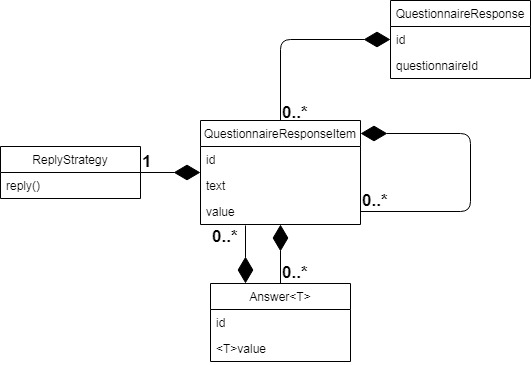
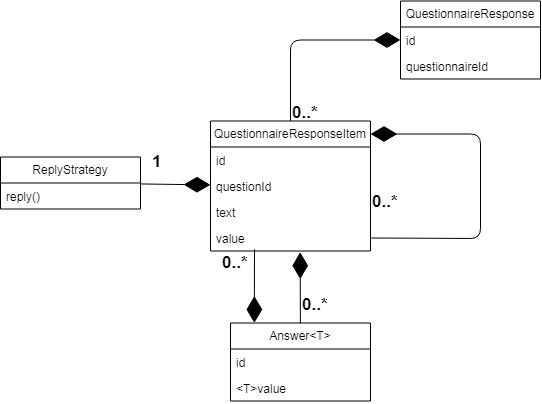
fix: added field questionId into response item instead of duplicating ids

Changed region(s): [[0.0, 0.0, 1.0, 1.0]]

diff --git a/packages/player/src/mappers/completeInitialFormState.ts b/packages/player/src/mappers/completeInitialFormState.ts
@@ -6,20 +6,20 @@ const completeResponseItem = (initialFormState: IFormState, responseItem: Models
     const answers = responseItem.answers;
     const nestedItems = responseItem.items;
     const questionItem = responseItem.questionItem;
-    const type = responseItem.questionItem.type;
+    const type = questionItem.type;
     if (answers.length !== 0) {
         const answer = answers[0];
         switch (type) {
             case Models.CHOICE: {
-                initialFormState[responseItem.id] = answer.id;
+                initialFormState[responseItem.questionId] = answer.id;
                 break;
             }
             case Models.OPEN_CHOICE: {
                 if ((questionItem as Models.OpenChoiceItem).options.some(option => option.id === answer.id && option.value === answer.value)) {
-                    initialFormState[responseItem.id] = answer.id;
+                    initialFormState[responseItem.questionId] = answer.id;
                 }
                 else {
-                    initialFormState[responseItem.id + '-other'] = answer.value;
+                    initialFormState[responseItem.questionId + '-other'] = answer.value;
                 }
             }
             case Models.MULTI_CHOICE: {
@@ -27,11 +27,11 @@ const completeResponseItem = (initialFormState: IFormState, responseItem: Models
                 answers.forEach(answer => {
                     multipleAnswers[answer.id] = true;
                 })
-                initialFormState[responseItem.id] = multipleAnswers;
+                initialFormState[responseItem.questionId] = multipleAnswers;
                 break;
             }
             default: {
-                initialFormState[responseItem.id] = answer.value;
+                initialFormState[responseItem.questionId] = answer.value;
             }
         }
     }

diff --git a/packages/models/src/models/questionnaireResponseItem.ts b/packages/models/src/models/questionnaireResponseItem.ts
@@ -13,6 +13,7 @@ import JL from 'json-logic-js';
 @observable
 export class QuestionnaireResponseItem implements IQuestionnaireResponseItem {
     id!: string;
+    questionId: string;
     text?: string;
     replyStrategy!: ReplyStrategy;
     @observableProperty
@@ -31,8 +32,9 @@ export class QuestionnaireResponseItem implements IQuestionnaireResponseItem {
     constructor(responseItem: Partial<IQuestionnaireResponseItem> | undefined, questionItem: Item, replyStrategy: ReplyStrategy, validationRules: IValidator[], answerCollection: AnswerCollection) {
         Object.assign(this, { id: uuid(), items: [], answers: [] }, responseItem);
         this.validationRules = validationRules;
-        this.setReplyStrategy(replyStrategy);
+        this.replyStrategy = replyStrategy;
         this.questionItem = questionItem;
+        this.questionId = questionItem.id;
         this.validate();
         this.answerCollection = answerCollection;
         if (questionItem.enableWhen.length) {
@@ -92,7 +94,7 @@ export class QuestionnaireResponseItem implements IQuestionnaireResponseItem {
         this.validate();
         obs && obs.unmute();
         obs && obs.emitChange();
-        this.answerCollection.updateResponseAnswers(this.id, this.answers.map(answer => answer.value));
+        this.answerCollection.updateResponseAnswers(this.questionId, this.answers.map(answer => answer.value));
     }
 
     cancelAnswer(answer: Answer<any>) {

diff --git a/packages/player/src/mappers/completeResponse.ts b/packages/player/src/mappers/completeResponse.ts
@@ -2,7 +2,7 @@ import * as Models from '@art-forms/models';
 
 export const completeResponse = (item: Models.Questionnaire | Models.GroupItem, response: Models.QuestionnaireResponse | Models.QuestionnaireResponseItem) => {
     item.items && item.items.forEach(item => {
-        const responseItem = Models.questionResponseFactory.createResponse(item, response.answerCollection, { id: item.id, text: item.text });
+        const responseItem = Models.questionResponseFactory.createResponse(item, response.answerCollection, { text: item.text });
         const answerFactory = new Models.AnswerFactory(responseItem);
         if (item.type !== Models.GROUP) {
             const oldResponseItem = response.items.find(responseItem => responseItem.id === item.id);

diff --git a/packages/player/src/components/Questionnaire.tsx b/packages/player/src/components/Questionnaire.tsx
@@ -76,7 +76,7 @@ export class Questionnaire extends React.Component<QuestionnaireProps> {
                 // preventEnter={true}     // has no type definition in .d.ts 
             >
                 {questionnaire.items && questionnaire.items.map(item => {
-                    const questionnaireResponseItem = questionnaireResponse.items.find(responseItem => responseItem.id === item.id);
+                    const questionnaireResponseItem = questionnaireResponse.items.find(responseItem => responseItem.questionId === item.id);
                     return questionnaireResponseItem && <ItemWrapper key={item.id} item={item} questionnaireResponseItem={questionnaireResponseItem} />
                 })}
             </Form>

diff --git a/packages/player/src/components/GroupItem.tsx b/packages/player/src/components/GroupItem.tsx
@@ -9,7 +9,7 @@ export class GroupItem extends React.Component<GroupItemProps> {
         const { item, questionnaireResponseItem } = this.props;
         return <div className="response-item-list">
             {item.items.map(item => {
-                const responseItem = questionnaireResponseItem.items.find(responseItem => responseItem.id === item.id);
+                const responseItem = questionnaireResponseItem.items.find(responseItem => responseItem.questionId === item.id);
                 return responseItem && <ItemWrapper key={item.id} item={item} questionnaireResponseItem={responseItem} />
             })}
         </div>

diff --git a/packages/player/src/components/MultiChoiceItemOption.tsx b/packages/player/src/components/MultiChoiceItemOption.tsx
@@ -2,7 +2,6 @@ import * as React from 'react';
 import * as Models from '@art-forms/models';
 import MultiChoiceItemOptionProps from '../interfaces/components/MultiChoiceItemOptionProps';
 import { Checkbox } from 'informed';
-import ERROR_MESSAGES from '../constants/errorMessages';
 
 export class MultiChoiceItemOption extends React.Component<MultiChoiceItemOptionProps> {
     answerFactory: Models.AnswerFactory = new Models.AnswerFactory(this.props.questionnaireResponseItem);

diff --git a/packages/player/src/components/questionItems/OpenChoiceItem.tsx b/packages/player/src/components/questionItems/OpenChoiceItem.tsx
@@ -3,7 +3,6 @@ import * as Models from '@art-forms/models';
 import { RadioGroup, Radio, Text, withFormApi, FormState } from 'informed';
 import { useObservableModel } from '@art-forms/observable';
 import OpenChoiceItemProps from '../../interfaces/components/questionItems/OpenChoiceItemProps';
-import ERROR_MESSAGES from '../../constants/errorMessages';
 
 
 export class OpenChoiceItem extends React.PureComponent<OpenChoiceItemProps> {

diff --git a/packages/player/src/components/questionItems/ChoiceItem.tsx b/packages/player/src/components/questionItems/ChoiceItem.tsx
@@ -1,7 +1,6 @@
 import * as React from 'react';
 import { RadioGroup, Radio, FormState, withFormApi } from 'informed';
 import ChoiceItemProps from '../../interfaces/components/questionItems/ChoiceItemProps';
-import ERROR_MESSAGES from '../../constants/errorMessages';
 
 
 export class ChoiceItem extends React.PureComponent<ChoiceItemProps> {

diff --git a/packages/player/src/components/questionItems/DateTimeItem.tsx b/packages/player/src/components/questionItems/DateTimeItem.tsx
@@ -1,7 +1,6 @@
 import * as React from 'react';
 import { Text, withFormApi, FormState } from 'informed';
 import DateTimeItemProps from '../../interfaces/components/questionItems/DateTimeItemProps';
-import ERROR_MESSAGES from '../../constants/errorMessages';
 
 
 export class DateTimeItem extends React.PureComponent<DateTimeItemProps> {

diff --git a/packages/player/src/components/questionItems/DecimalItem.tsx b/packages/player/src/components/questionItems/DecimalItem.tsx
@@ -1,7 +1,6 @@
 import * as React from 'react';
 import { Text, withFormApi, FormState } from 'informed';
 import DecimalItemProps from '../../interfaces/components/questionItems/DecimalItemProps';
-import ERROR_MESSAGES from '../../constants/errorMessages';
 
 
 export class DecimalItem extends React.PureComponent<DecimalItemProps> {

diff --git a/packages/player/src/components/questionItems/StringItem.tsx b/packages/player/src/components/questionItems/StringItem.tsx
@@ -1,7 +1,6 @@
 import * as React from 'react';
 import { Text, FormState, withFormApi } from 'informed';
 import StringItemProps from '../../interfaces/components/questionItems/StringItemProps';
-import ERROR_MESSAGES from '../../constants/errorMessages';
 
 
 export class StringItem extends React.PureComponent<StringItemProps> {

diff --git a/packages/player/src/components/questionItems/DateItem.tsx b/packages/player/src/components/questionItems/DateItem.tsx
@@ -1,7 +1,6 @@
 import * as React from 'react';
 import { Text, FormState, withFormApi } from 'informed';
 import DateItemProps from '../../interfaces/components/questionItems/DateItemProps';
-import ERROR_MESSAGES from '../../constants/errorMessages';
 
 
 export class DateItem extends React.PureComponent<DateItemProps> {
